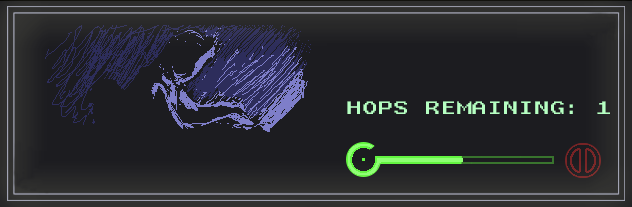
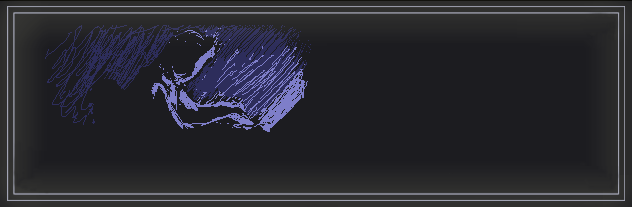
Updated header
Removed the graphics for the timer and the hops.  Moved the countdown
display to the right and added more space between the score and level
and highscore and highest level.  Adjusted where things land on the
page a bit too so it’s a little cleaner.  Need to make final
adjustments and also add that mute button!

Changed region(s): [[0.5411, 0.6667, 0.962, 0.8696], [0.5411, 0.4638, 0.962, 0.5507]]

diff --git a/match3.html b/match3.html
@@ -17,17 +17,18 @@
 </div>
 <div class="header">
   <div class="relative wrapper">
-    <!-- <img id="header" src="images/mock header.png"> -->
     <img id="header" src="images/header.png">
     <div class="score">
-      <div> TimeLeft : <span id="timeleft">0</span></div>
       <div> Score : <span id="score">0</span></div>
       <div> Level : <span id="level">1</span></div>
     </div>
+    <div class="timer">
+      <div> TimeLeft : <span id="timeleft">0</span></div>
+    </div>
 
     <div class="highscore">
-      <div>High Score : <span id="highscore">CHEEEESE</span></div>
       <div>Highest Level : <span id="highestlevel">1</span></div>
+      <div>High Score : <span id="highscore">CHEEEESE</span></div>
     </div>
   </div>
 </div>

diff --git a/css/style.css b/css/style.css
@@ -22,17 +22,27 @@ canvas {
     left: 22px;
     font-size: 25px;
     font-family: monospace;
+    line-height: 25px;
+}
+
+.timer {
+    color: #B6FFC2;
+    position: absolute;
+    bottom: 22px;
+    right: 122px;
+    font-size: 25px;
+    font-family: monospace;
     line-height: 21px;
 }
 
 .highscore{
     color: #B6FFC2;
     position: absolute;
-    top: 17px;
-    right: 68px;
+    top: 40px;
+    right: 48px;
     font-size: 25px;
     font-family: monospace;
-    line-height: 21px;
+    line-height: 25px;
 }
 
 #game-container{
